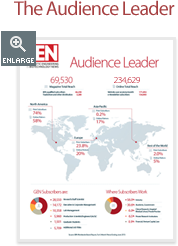
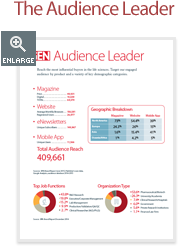
Client Changes 9/29
Edited home, magazine and website

Changed region(s): [[0.1404, 0.1707, 0.9551, 0.7398], [0.1685, 0.7398, 0.9551, 0.9675]]

diff --git a/GEN-Website.html b/GEN-Website.html
@@ -74,40 +74,11 @@ $(document).ready(function() {
 
 <div class="content">
 
-<div class="video">
-	<div class="flash">
-   	  <object id="FlashID" classid="clsid:D27CDB6E-AE6D-11cf-96B8-444553540000" width="430" height="284">
-    	  <param name="movie" value="website-video.swf" />
-    	  <param name="quality" value="high" />
-    	  <param name="wmode" value="transparent" />
-    	  <param name="swfversion" value="9.0.115.0" />
-    	  <!-- This param tag prompts users with Flash Player 6.0 r65 and higher to download the latest version of Flash Player. Delete it if you don’t want users to see the prompt. -->
-    	  <param name="expressinstall" value="scripts/expressInstall.swf" />
-    	  <!-- Next object tag is for non-IE browsers. So hide it from IE using IECC. -->
-    	  <!--[if !IE]>-->
-    	  <object type="application/x-shockwave-flash" data="website-video.swf" width="430" height="284">
-    	    <!--<![endif]-->
-    	    <param name="quality" value="high" />
-    	    <param name="wmode" value="transparent" />
-    	    <param name="swfversion" value="9.0.115.0" />
-    	    <param name="expressinstall" value="scripts/expressInstall.swf" />
-    	    <!-- The browser displays the following alternative content for users with Flash Player 6.0 and older. -->
-    	    <div class="video-poster">
-				<a href="mp4/Website-video.mp4"><img src="img/poster/WebsitePoster.jpg" width="412" height="232" alt=""/></a>
-  	      	</div>
-    	    <!--[if !IE]>-->
-  	    </object>
-    	  <!--<![endif]-->
-  	  </object>
-    </div>
-	<p><strong>Video:</strong> Learn about GEN Website</p>
-</div>
-
 <div class="headline-col">
-	<h1>GEN’s dynamic website,</h1>
-    <p>GENengnews.com delivers critical information and is biotech’s go-to source for critical information on the tools and technologies that improve workflows and lead to enhanced productivity. Authoritative technical reports, fresh life science job openings and a new robust search engine that scours top academic journals make up our new GEN Select premium content.</p>
+	<h1>GEN&rsquo;s Dynamic Website</h1>
+    <p>GENengnews.com delivers critical information and is biotech&rsquo;s go-to source for critical information on the tools and technologies that improve workflows and lead to enhanced productivity. Authoritative technical reports, fresh life science job openings, and a new robust search engine that scours top academic journals make up our new GEN Select premium content.</p>
 
-<p class="button-next">DOUBLE THE IMPACT of your website banner with a campaign in <a href="http://www.genengnews.com/media/pdf/Product_Website.pdf" target="_blank">GEN Highlights or Editor's Select Package</a> – both driving traffic to a custom landing page.</p>
+<!-- <p class="button-next">DOUBLE THE IMPACT of your website banner with a campaign in <a href="http://www.genengnews.com/media/pdf/Product_Website.pdf" target="_blank">GEN Highlights or Editor's Select Package</a> – both driving traffic to a custom landing page.</p> -->
 
     <p class="last lgs-button"><a href="#" onmouseover="_gaq.push(['_trackEvent', 'Website', 'Email', 'GetStarted']);"><img src="img/lets-get-started.png" width="242" height="44"  alt=""/></a><span class="quick-links"><img src="img/ql-website.png"  alt="" width="488" height="504" usemap="#Map" border="0"/>
         <map name="Map" id="Map">
@@ -130,7 +101,7 @@ $(document).ready(function() {
 <div id="tabs">
 <ul>
     <li><a href="#tabs-1" onClick="_gaq.push(['_trackEvent', 'Website', 'Tab', 'Exposure']);">High Velocity Exposure</a></li>
-    <li><a href="#tabs-2" onClick="_gaq.push(['_trackEvent', 'Website', 'Tab', 'Impressions']);">Effective Ad Impressions</a></li>
+    <li><a href="#tabs-2" onClick="_gaq.push(['_trackEvent', 'Website', 'Tab', 'Impressions']);">Effective Ad Coverage</a></li>
 </ul>
 <div id="tabs-1" class="ui-corner-all short">
 
@@ -139,22 +110,17 @@ $(document).ready(function() {
     <div class="right-tabcol">
     
     	<h1 style="margin-bottom: 5px;">High Velocity Exposure</h1>
-        <p class="large" style="margin-bottom: 5px;">Tap into an engaged audience of industry and academic R&amp;D scientists  and biotech business pros who are focused on keeping ahead of industry trends and finding mission critical content.<br />
-        GEN’s success metrics include hosting over 1.2 million unique individuals in the past year.</p>
-        <ul style="margin-bottom: 5px;">
-        	<li style="width: 800px;">Page views are up 22% since last year, trending to surpass 4 million in 2013.</li>
-            <li>International traffic continues to climb at 44.9% of visits,<br />
-including 19.5% from Asia.</li>
-            <li>Loyal GEN site users stay on the site for over 7 minutes and view<br />
-4 pages per session.<br />
-          <span style="display: block; padding-top: 5px; font-size: 9px;">Source: Google Analytics</span></li>
-        </ul>
+        <p>Tap  into an engaged audience of industry and academic R&amp;D scientists and  biotech business pros who are focused on keeping ahead of industry trends and  finding mission critical content.<br>
+  GEN&rsquo;s success metrics include hosting over 1.2 million unique individuals in  the past year.</p>
+<p>Reach a highly engaged audience of industry and  academic R&amp;D scientists and biotech business professionals. Our audience is  focused on keeping ahead of industry trends and finding mission-critical  content.</p>
+        
         
         <div class="quote">
-    	<p class="quote-text" style="width: 438px;"><span class="quote-img">&nbsp;</span>GEN presents novel and forthcoming applications and products that are most valuable for our work. GEN is also very useful for our customers and course participants who get ideas about new experiments and hypotheses to test. &rdquo;</p>
-        <p class="quote-name">Mikael Kubista, Ph.D.<br />
-          Head of the Gene Expression Laboratory<br />
-          The Institute of Biotechnology, ASCR, Prague</p>
+    	<p class="quote-text" style="width: 438px;"><span class="quote-img">&nbsp;</span>I love seeing our name in GEN. <br />
+    	  There simply is nothing&nbsp;better.&rdquo;</p>
+        <p class="quote-name">Meg Duskin<br />
+          Marketing Communications Manager,<br />
+          MaxCyte</p>
     </div>
     
     </div>
@@ -204,13 +170,15 @@ including 19.5% from Asia.</li>
     	<div id="webtab-02-img01"><a class="fancybox" onClick="_gaq.push(['_trackEvent', 'Website', 'Image', 'NowBar_T2']);" href="img/webtab-02-Now-Bar-Flyout.jpg"><img src="img/webtab-02-img01.jpg" width="288" height="140"  alt=""/></a><br />
 <a class="fancybox" onClick="_gaq.push(['_trackEvent', 'Website', 'Image', 'Homepage_T2']);" href="img/webtab-02-Homepage.jpg"><img src="img/webtab-02-img02.jpg" width="288" height="298"  alt=""/></a></div>
     
-    	<h1>Effective Ad Impressions</h1>
-        <p style="margin-bottom: 20px; width: 430px;">Imprint your brand or featured product(s) on the minds of influential biotech research and development personnel across industry and academia.  Leverage the investment in your website and digital platforms by driving qualified traffic to your home or product landing pages.</p>
-        <ul style="width: 415px">
-        	<li><strong>Strategically placed ad positions</strong> with rich media capabilities surround perennially popular items like daily industry news, GEN Lists, and feature articles. </li>
-            <li><strong>Exclusive sponsorships</strong> that offer thought leadership and prestige accompany highly regarded content through our new BioPerspectives native advertising program.</li>
-            <li><strong>Innovations like GEN’s NowBar!</strong> showcase high visibility display ads inside GEN’s  primary navigation tool.</li>
-        </ul>
+    	<h1>Effective Ad Coverage</h1>
+        <p style="margin-bottom: 20px; width: 430px;">Imprint your brand or featured product(s) in the minds of influential  biotech research and development personnel across industry and academia.  Leverage the investment in your website and digital platforms by driving  qualified traffic to your home or product landing pages.</p>
+<p>Every  ad slot is strategically placed for optimal viewing. All ads are run-of-site for  maximum exposure and each ad slot is designed for specific targeting goals:</p>
+<ul>
+	<li>NowBar: Time sensitive promotion</li>
+	<li>Leaderboard: High visibility</li>
+	<li>Pushdown: Rich media capable, high visibility</li>
+	<li>Medium Rectangle: Strategic placement adjacent to editorial content</li>
+</ul>
     
     </div>
     <!-- END .right-tabcol -->

diff --git a/index.html b/index.html
@@ -68,7 +68,7 @@
     	  <param name="quality" value="high" />
     	  <param name="wmode" value="transparent" />
     	  <param name="swfversion" value="9.0.115.0" />
-    	  <!-- This param tag prompts users with Flash Player 6.0 r65 and higher to download the latest version of Flash Player. Delete it if you don’t want users to see the prompt. -->
+    	  <!-- This param tag prompts users with Flash Player 6.0 r65 and higher to download the latest version of Flash Player. Delete it if you don&rsquo;t want users to see the prompt. -->
     	  <param name="expressinstall" value="scripts/expressInstall.swf" />
     	  <!-- Next object tag is for non-IE browsers. So hide it from IE using IECC. -->
     	  <!--[if !IE]>-->
@@ -92,7 +92,7 @@
 
 <div class="headline-col">
 	<h1>Performance-Driven Media</h1>
-    <p class="button-next">GEN has solidified its leading position in the life sciences community with the introduction of a suite of powerful new digital properties together with time-tested print and web properties to help you reach and engage your customers and prospects globally.</p>
+    <p class="button-next">We&rsquo;ve designed GEN&rsquo;s content-driven platforms based on the informational needs of our audience at different stages of the purchasing lifecycle. GEN&rsquo;s platforms will deliver your messages and content to potential customers against the backdrop of our trusted editorial environment.</p>
     <p class="last lgs-button"><a href="#" onmouseover="_gaq.push(['_trackEvent', 'Home', 'Email', 'GetStarted']);"><img src="img/lets-get-started.png" width="242" height="44"  alt=""/></a><span class="quick-links"><img src="img/ql-Home.png"  alt="" width="488" height="504" usemap="#Map" border="0"/>
         <map name="Map" id="Map">
           <area shape="rect" coords="265,204,443,222" onClick="_gaq.push(['_trackEvent', 'Home', 'Email', 'Sande']);" href="mailto:sgiaccone@genengnews.com" alt="email: sgiaccone@genengnews.com" />
@@ -116,8 +116,7 @@
 <ul>
     <li><a href="#tabs-1" onClick="_gaq.push(['_trackEvent', 'Home', 'Tab', 'Audience']);">Influential Audience</a></li>
     <li><a href="#tabs-2" onClick="_gaq.push(['_trackEvent', 'Home', 'Tab', 'Platforms']);">Targeted Platforms</a></li>
-    <li><a href="#tabs-3" onClick="_gaq.push(['_trackEvent', 'Home', 'Tab', 'Results']);">Precision Results</a></li>
-    <li><a href="#tabs-4" onClick="_gaq.push(['_trackEvent', 'Home', 'Tab', 'Team']);">Dedicated Team</a></li>
+    <li><a href="#tabs-3" onClick="_gaq.push(['_trackEvent', 'Home', 'Tab', 'Team']);">Dedicated Team</a></li>
 </ul>
 <div id="tabs-1" class="ui-corner-all">
 
@@ -135,7 +134,7 @@
 <!-- END .tab-left -->
 
 <div id="tab01-img01"><a href="http://www.genengnews.com/media/pdf/Homepage-T1-Purchasing-Power.pdf" target="_blank" onClick="_gaq.push(['_trackEvent', 'Home', 'Image', 'Purchasing_T1']);"><img src="./img/home-tab01-img01.png"  alt="GEN Delivers Purchasing Power | GEN provides you with unrivalled exposure to key decision-makers, 93%* have money and the authority to make purchasing decisions." width="323" height="378" border="0"/></a></div>
-<div id="tab01-img02"><a href="http://www.genengnews.com/media/pdf/Homepage-T1-The-Audience-Leader.pdf" target="_blank" onClick="_gaq.push(['_trackEvent', 'Home', 'Image', 'Audience_T1']);"><img src="img/home-tab01-img02.png"  alt="The Audience Leader" width="178" height="246" border="0"/></a></div>
+<div id="tab01-img02"><a href="http://www.genengnews.com/media/pdf/2016_GEN_Audience_Leader.pdf" target="_blank" onClick="_gaq.push(['_trackEvent', 'Home', 'Image', 'Audience_T1']);"><img src="img/home-tab01-img02.png"  alt="The Audience Leader" width="178" height="246" border="0"/></a></div>
 
 </div>
 
@@ -149,10 +148,10 @@ and engagement across print and digital platforms</h1>
 New channels have created opportunities to reach a broader spectrum of audiences more effectively.  Move beyond the traditional “silo” marketing approach and use GEN to help create an integrated presence to deliver your message across day parts and multiple media channels: print, online display, video, email, mobile and social media.</p>
 
     <p><strong>Purchasing Focused Platforms</strong><br />
-    We’ve designed GEN’s content-driven platforms based on the information needs of our audience at different stages of the purchasing lifecycle.  According to analyst firm SiriusDecisions - 70% of the buying process in a complex sale is already complete before prospects are willing to engage with a live sales person.  GEN’s platforms will deliver your messages and content to potential customers against the backdrop of our trusted editorial environment to help with their buying decisions.</p>
+    We&rsquo;ve designed GEN&rsquo;s content-driven platforms based on the information needs of our audience at different stages of the purchasing lifecycle.  According to analyst firm SiriusDecisions - 70% of the buying process in a complex sale is already complete before prospects are willing to engage with a live sales person.  GEN&rsquo;s platforms will deliver your messages and content to potential customers against the backdrop of our trusted editorial environment to help with their buying decisions.</p>
     
     <p><strong>New Digital Channels</strong><br />
-    Go where your customers are going.  Life science professionals are increasingly using mobile and social media channels to be more productive wherever they are – in the lab, office or at home.  GEN’s new Mobile App and Social Ad Programs put you on the forefront of these new marketing frontiers.</p>
+    Go where your customers are going.  Life science professionals are increasingly using mobile and social media channels to be more productive wherever they are – in the lab, office or at home.  GEN&rsquo;s new Mobile App and Social Ad Programs put you on the forefront of these new marketing frontiers.</p>
 </div>
 <!-- END .tab-left -->
 
@@ -162,28 +161,6 @@ New channels have created opportunities to reach a broader spectrum of audiences
 </div>
 
 <div id="tabs-3" class="ui-corner-all">
-
-<div class="tab-left home-tab03">
-
-<h1>GEN is a primary means for driving buyers<br />
-through the brand adoption process.</h1>
-
-    <p><strong>Empowering Advice</strong><br />
-    Marketing has undergone a major shift. Print.  Website.  e-Newsletters.  Mobile.  Social.  Search. Which channels should you use to market your products and services?  How do you put it all together?  Count on our expertise to help match your marketing objectives to the most effective GEN multichannel ad programs.</p>
-    
-    <p><strong>Optimized Campaigns</strong><br />
-    Placing your media buy is only the first step in the services we provide you.  We’ll work collaboratively to test, monitor and optimize your campaigns.  Look at us as an extension of your marketing department to ensure campaign success.</p>
-    
-    <p><strong>Maximum ROI</strong><br />
-    Branding...leads...thought leadership - or all of these.  Let us monitor and report on key success metrics to optimize your campaigns across multiple channels, technologies and devices.</p>
-</div>
-<!-- END .tab-left -->
-
-<div id="tab03-img01"><img src="img/home-tab03-img01.jpg" width="455" height="337" alt=""/></div>
-
-</div>
-
-<div id="tabs-4" class="ui-corner-all">
 
 <div class="tab-left home-tab04">
 

diff --git a/GEN-Magazine.html b/GEN-Magazine.html
@@ -75,35 +75,6 @@ $(document).ready(function() {
 
 <div class="content">
 
-<div class="video">
-	<div class="flash">
-   	  <object id="FlashID" classid="clsid:D27CDB6E-AE6D-11cf-96B8-444553540000" width="430" height="284">
-    	  <param name="movie" value="magazine-video.swf" />
-    	  <param name="quality" value="high" />
-    	  <param name="wmode" value="transparent" />
-    	  <param name="swfversion" value="10.3.0.0" />
-    	  <!-- This param tag prompts users with Flash Player 6.0 r65 and higher to download the latest version of Flash Player. Delete it if you don’t want users to see the prompt. -->
-    	  <param name="expressinstall" value="scripts/expressInstall.swf" />
-    	  <!-- Next object tag is for non-IE browsers. So hide it from IE using IECC. -->
-    	  <!--[if !IE]>-->
-    	  <object type="application/x-shockwave-flash" data="magazine-video.swf" width="430" height="284">
-    	    <!--<![endif]-->
-    	    <param name="quality" value="high" />
-    	    <param name="wmode" value="transparent" />
-    	    <param name="swfversion" value="10.3.0.0" />
-    	    <param name="expressinstall" value="scripts/expressInstall.swf" />
-    	    <!-- The browser displays the following alternative content for users with Flash Player 6.0 and older. -->
-    	    <div class="video-poster">
-				<a href="mp4/Magazine-video.mp4"><img src="img/poster/MagazinePoster.jpg" width="412" height="232" alt=""/></a>
-  	      	</div>
-    	    <!--[if !IE]>-->
-  	    </object>
-    	  <!--<![endif]-->
-  	  </object>
-        </div>
-	<p><strong>Video:</strong> Learn about GEN Magazine</p>
-</div>
-
 <div class="headline-col">
 	<h1>Genetic Engineering &amp;<br />
 		Biotechnology News magazine</h1>
@@ -128,7 +99,7 @@ $(document).ready(function() {
 
 <div id="tabs">
 <ul>
-    <li><a href="#tabs-1" onClick="_gaq.push(['_trackEvent', 'Magazine', 'Tab', 'Print']);">Print That Performs</a></li>
+    <li><a href="#tabs-1" onClick="_gaq.push(['_trackEvent', 'Magazine', 'Tab', 'Print']);">Print Matters</a></li>
     <li><a href="#tabs-2" onClick="_gaq.push(['_trackEvent', 'Magazine', 'Tab', 'Impact']);">High Impact</a></li>
 </ul>
 <div id="tabs-1" class="ui-corner-all short">
@@ -142,10 +113,10 @@ Department of Chemical Engineering, MIT</p>
     
     <div class="right-tabcol">
     
-    	<h1>Print That Performs</h1>
-        <p class="large">The foundation of every successful campaign is a strong brand and it begins with print.  GEN print connects you with a loyal audience of 66,250 readers around the world with money to spend and authority to make purchasing decisions.   A BIGinsight MBI, Dec 2012 survey found that print magazines were on par with word-of-mouth in triggering&nbsp;action.</p>
+    	<h1>Print Matters</h1>
+        <p class="large">Top business publications continue to showcase print’s solid underpinning in the media mix. In a feature article that appeared on CNNMoney’s website in March 2015, industry experts cited print as being the key influencer in purchasing decisions. Print is experiencing a renaissance as marketers (re) acknowledge its critical branding and credibility power, especially when tied to web properties. GEN print is a prime example of this tactic. While continuing to be the loyal reader’s medium of choice, GEN is deeply integrated withboth established and emerging online channels.</p>
         <p><img src="img/magazine-tab01-img02.jpg" width="483" height="104"  alt="Reach 66,250 | Frequency 21 times a year on both print and digital platforms | Bonus Distribution Over 75+ conferences per year " class="extra"/></p>
-        <p style="width: 470px;"><strong>DOUBLE THE IMPACT</strong> of your high impact print campaign with a banner ad placement on the GEN <a href="http://www.genengnews.com/media/pdf/Product_Website.pdf" target="_blank">website</a> or <a href="http://www.genengnews.com/media/pdf/Product_e-Newsletters.pdf" target="_blank">e-Newsletters</a> and/or a QR code to drive traffic to a custom landing page </p>
+        <!-- <p style="width: 470px;"><strong>DOUBLE THE IMPACT</strong> of your high impact print campaign with a banner ad placement on the GEN <a href="http://www.genengnews.com/media/pdf/Product_Website.pdf" target="_blank">website</a> or <a href="http://www.genengnews.com/media/pdf/Product_e-Newsletters.pdf" target="_blank">e-Newsletters</a> and/or a QR code to drive traffic to a custom landing page </p> -->
     
     </div>
     <!-- END .right-tabcol -->
